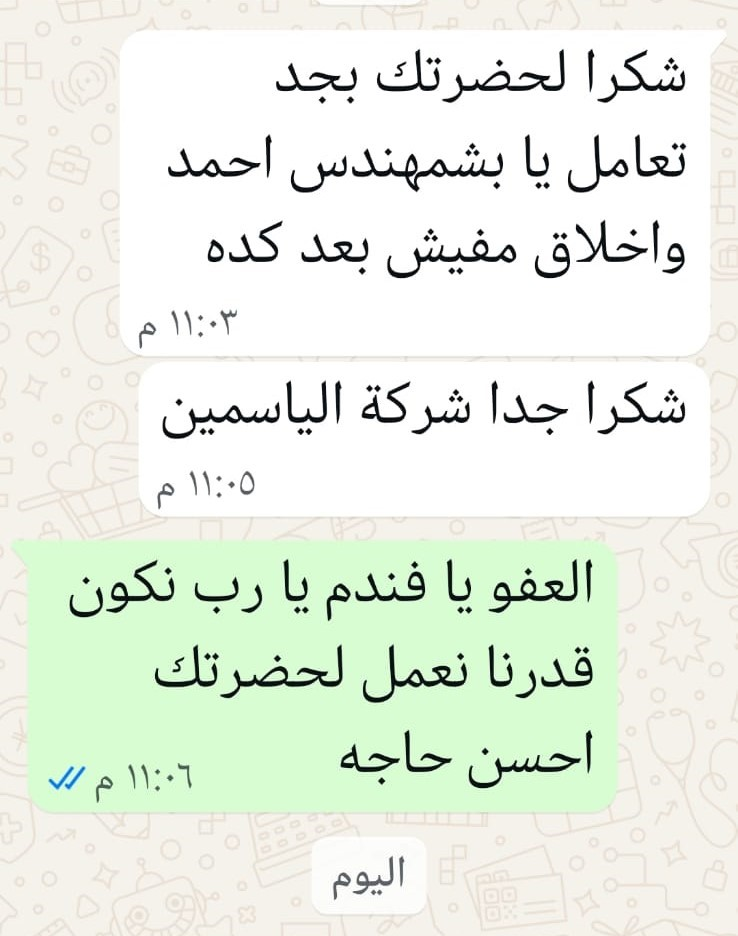
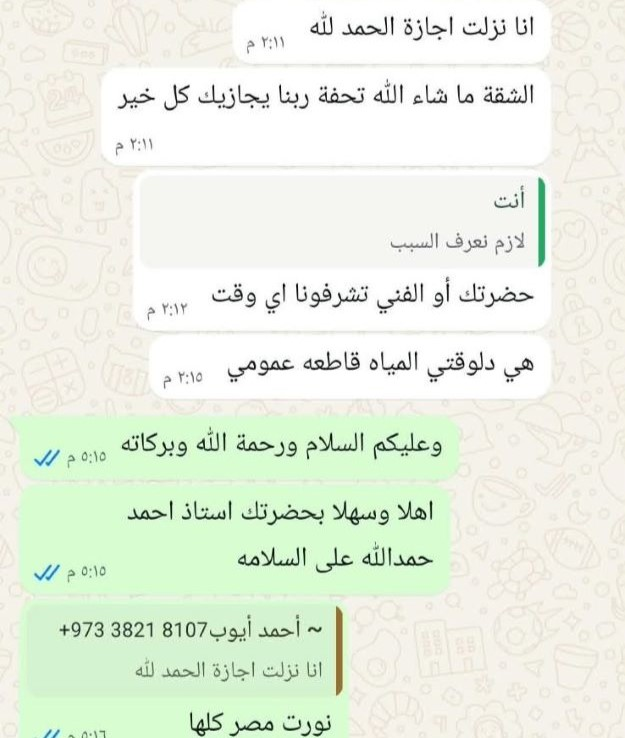
fix testimonials sec

diff --git a/app/(root)/components/Testimonials.tsx b/app/(root)/components/Testimonials.tsx
@@ -20,31 +20,25 @@ const testimonialsList = [
     userImg: "/assets/testimonials/1.jpeg",
   },
   {
-    img: "/assets/testimonials/1.jpeg",
+    img: "/assets/testimonials/2.jpeg",
     name: "",
     city: "",
     userImg: "/assets/testimonials/1.jpeg",
   },
   {
-    img: "/assets/testimonials/1.jpeg",
+    img: "/assets/testimonials/3.jpeg",
     name: "",
     city: "",
     userImg: "/assets/testimonials/1.jpeg",
   },
   {
-    img: "/assets/testimonials/1.jpeg",
+    img: "/assets/testimonials/4.jpeg",
     name: "",
     city: "",
     userImg: "/assets/testimonials/1.jpeg",
   },
   {
-    img: "/assets/testimonials/1.jpeg",
-    name: "",
-    city: "",
-    userImg: "/assets/testimonials/1.jpeg",
-  },
-  {
-    img: "/assets/testimonials/1.jpeg",
+    img: "/assets/testimonials/5.jpeg",
     name: "",
     city: "",
     userImg: "/assets/testimonials/1.jpeg",
@@ -110,13 +104,12 @@ export default function Testimonials() {
 
           {/* Sub Title */}
           <h2 className="text-center text-[32px] text-white font-bold">
-            ما يقوله عملاؤنا عن إطلالة
+            ما يقوله عملاؤنا عن الياسمين
           </h2>
 
-          {/* Description */}
           <p className="max-w-md text-center leading-[200%] text-primary-100">
-            نفخر بثقة عملائنا ورضاهم عن تجربتهم معنا، إليكم بعض من آرائهم بعد
-            قضاء أوقات مميزة في بورتو مطروح
+            نفخر بثقة عملائنا ورضاهم عن جودة أعمالنا، إليكم بعض من آرائهم
+            وتجاربهم معنا في التصميم والتشطيبات والديكور
           </p>
         </div>
 

diff --git a/app/(root)/components/Projects.tsx b/app/(root)/components/Projects.tsx
@@ -9,8 +9,6 @@ import "swiper/css";
 import "swiper/css/navigation";
 import "swiper/css/pagination";
 import { IoIosArrowBack, IoIosArrowForward } from "react-icons/io";
-import { Button } from "@/components/ui/button";
-import { IoArrowBack } from "react-icons/io5";
 import Popup from "@/components/shared/Popup";
 
 export default function Projects() {
@@ -171,15 +169,12 @@ function WorksSwiper() {
         breakpoints={{
           640: {
             slidesPerView: 1.8,
-            spaceBetween: 4,
           },
           1024: {
             slidesPerView: 2.2,
-            spaceBetween: 4,
           },
           1280: {
             slidesPerView: 2.6,
-            spaceBetween: 0,
           },
         }}
         className="!overflow-visible"
